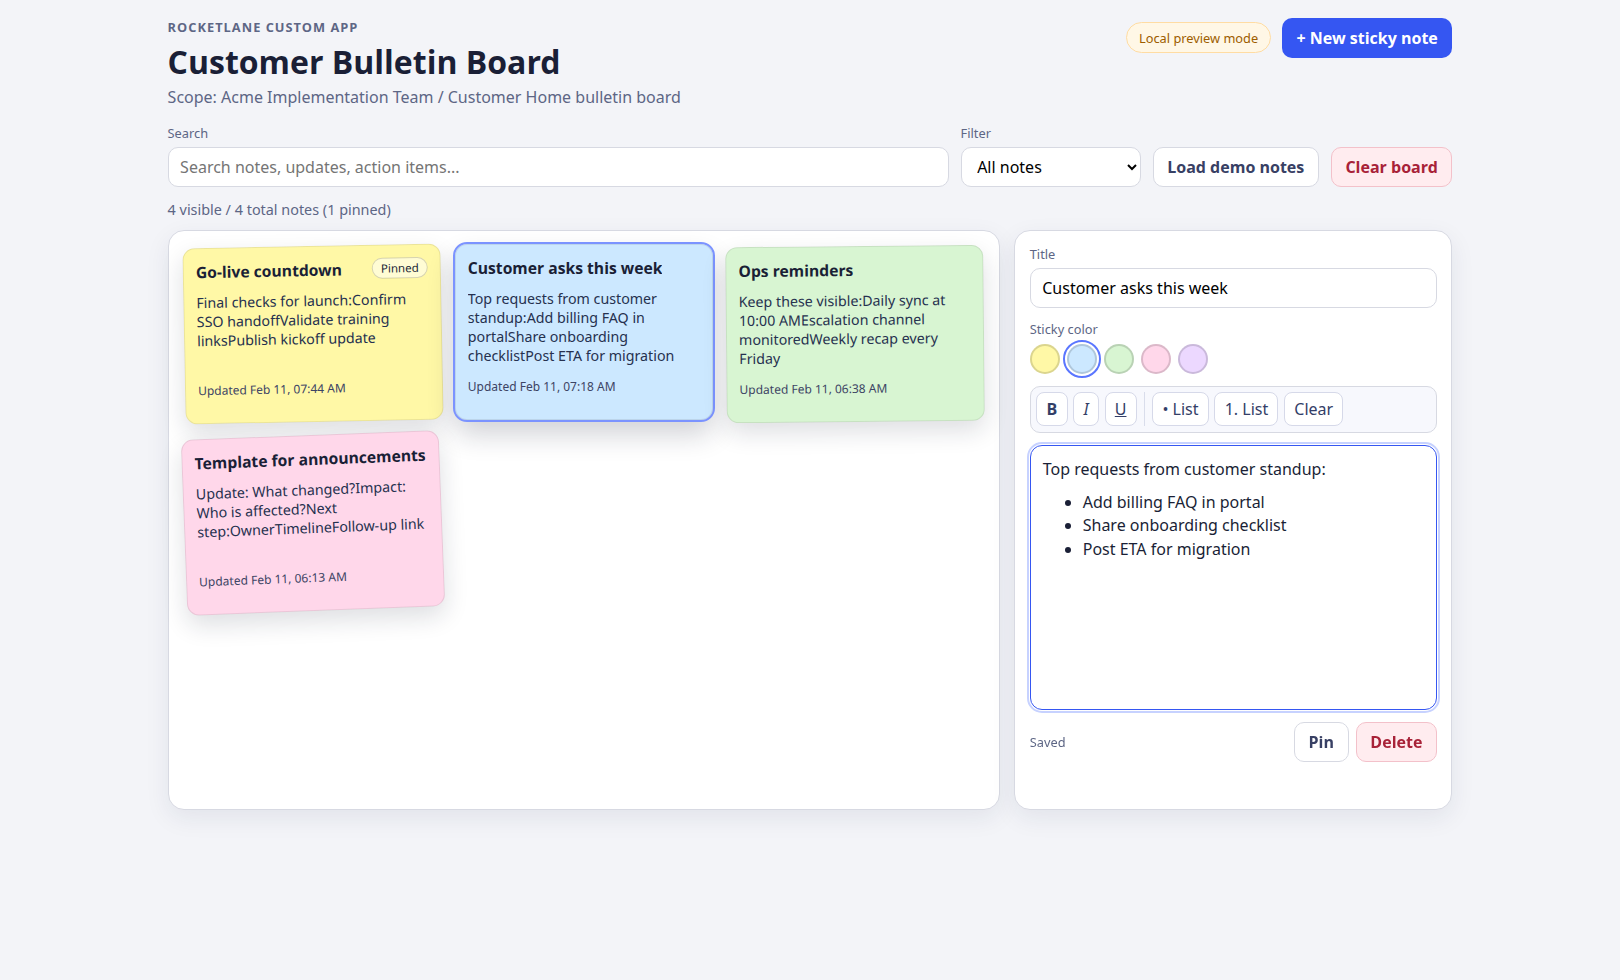
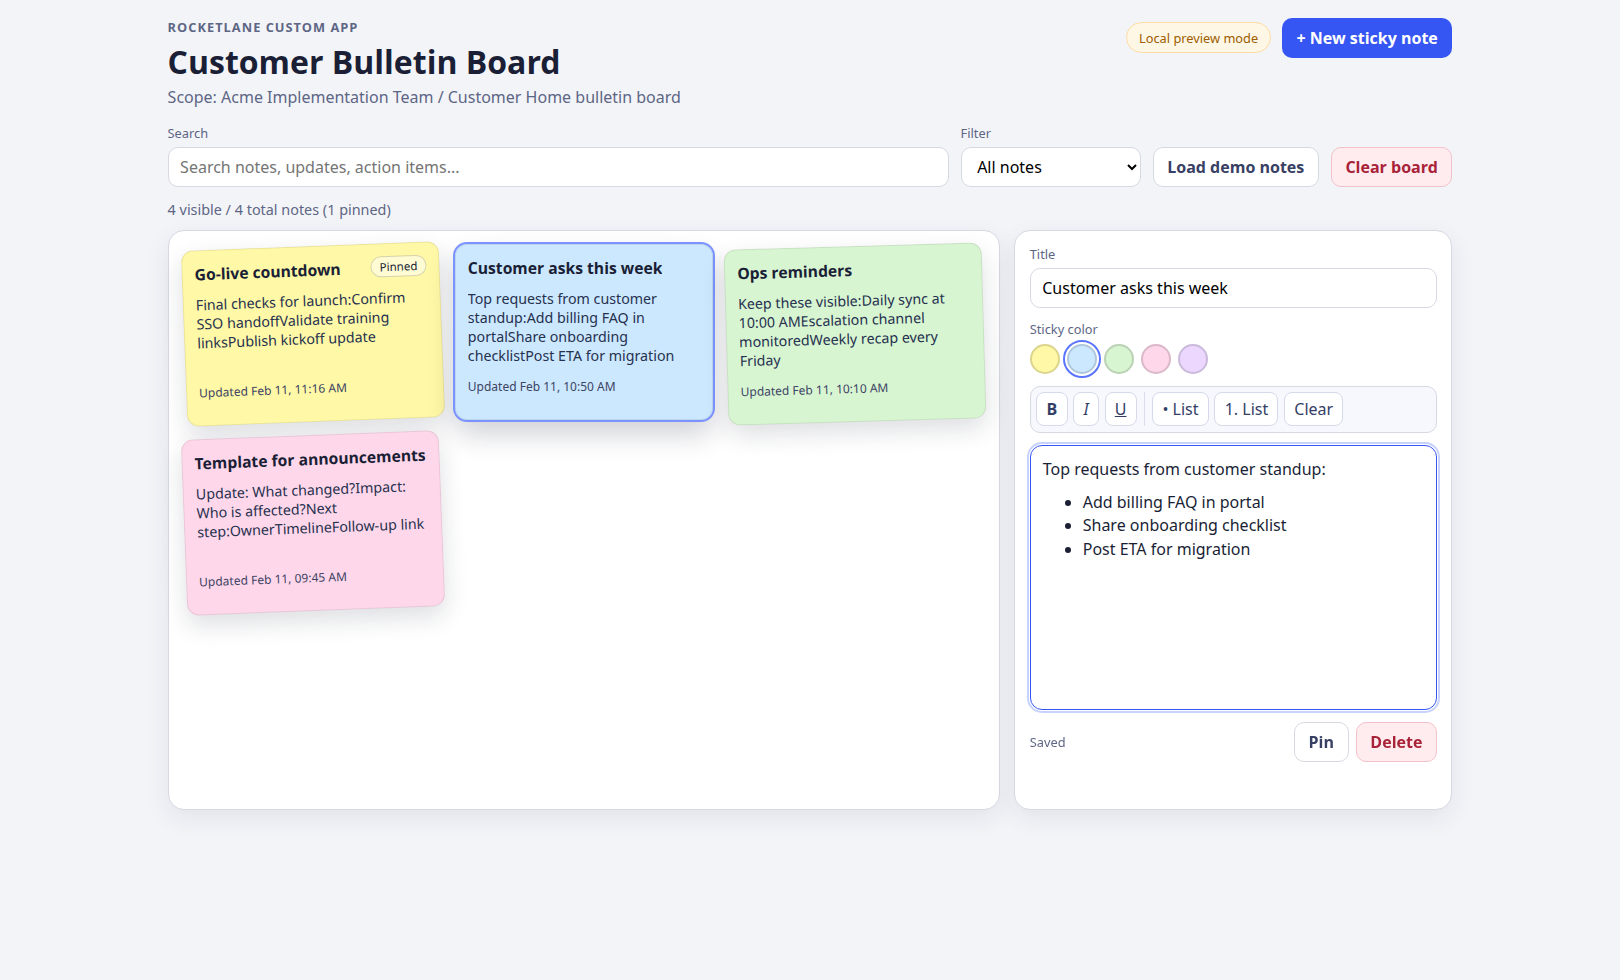
Add Home sidebar widget variant and compact right-rail layout

diff --git a/dist/app.js b/dist/app.js
@@ -14,6 +14,8 @@
     client: null,
     context: null,
     storageKey: "",
+    widgetId: "",
+    layoutMode: "full", // "full" | "sidebar"
     notes: [],
     selectedNoteId: null,
     searchQuery: "",
@@ -37,6 +39,11 @@
     bindEvents();
     buildColorPicker();
 
+    const query = new URLSearchParams(window.location.search);
+    state.widgetId = detectWidgetId(query);
+    state.layoutMode = determineLayoutMode(state.widgetId, query);
+    applyLayoutMode(state.layoutMode);
+
     const runtime = await initializeRuntime();
     state.client = runtime.client;
     state.context = runtime.context;
@@ -45,7 +52,6 @@
     updateHeader(runtime);
     loadNotes();
 
-    const query = new URLSearchParams(window.location.search);
     if (state.notes.length === 0 && shouldSeedDemo(query)) {
       seedDemoNotes();
     }
@@ -59,6 +65,41 @@
     }
 
     renderAll();
+  }
+
+  function detectWidgetId(query) {
+    return (
+      query.get("widgetId") ||
+      query.get("widgetIdentifier") ||
+      query.get("widget") ||
+      ""
+    );
+  }
+
+  function determineLayoutMode(widgetId, query) {
+    const explicit = String(query.get("layout") || "").toLowerCase();
+    if (explicit === "sidebar" || explicit === "rail") {
+      return "sidebar";
+    }
+
+    // Use the widget identifier to switch to a compact layout for the
+    // Home right-sidebar placement (typically configured under Personal Tasks).
+    if (widgetId === "customer-bulletin-board-home-right") {
+      return "sidebar";
+    }
+
+    // Auto-detect a right-rail embed: narrow iframe/container.
+    // This doesn't guarantee placement, but ensures the UI fits there.
+    if (window.innerWidth > 0 && window.innerWidth <= 640) {
+      return "sidebar";
+    }
+
+    return "full";
+  }
+
+  function applyLayoutMode(mode) {
+    document.body.classList.toggle("layout-sidebar", mode === "sidebar");
+    document.body.classList.toggle("layout-full", mode !== "sidebar");
   }
 
   function cacheDomReferences() {
@@ -227,10 +268,17 @@
 
   function updateHeader(runtime) {
     const context = runtime.context;
-    const view = context.projectName || "Customer home";
+    const view =
+      context.projectName ||
+      (state.layoutMode === "sidebar" ? "Home (right sidebar)" : "Customer home");
 
-    refs.boardScope.textContent =
-      "Scope: " + context.accountName + " / " + view + " bulletin board";
+    if (state.layoutMode === "sidebar") {
+      refs.boardScope.textContent =
+        "Configured for Home right sidebar (place under Personal Tasks)";
+    } else {
+      refs.boardScope.textContent =
+        "Scope: " + context.accountName + " / " + view + " bulletin board";
+    }
 
     if (runtime.connected) {
       refs.connectionBadge.className = "badge badge-ok";

diff --git a/dist/styles.css b/dist/styles.css
@@ -426,3 +426,60 @@ select:focus,
     flex-wrap: wrap;
   }
 }
+
+/* Compact styling for the Home right-sidebar widget placement. */
+body.layout-sidebar {
+  background: transparent;
+}
+
+body.layout-sidebar .app-shell {
+  max-width: 100%;
+  padding: 0.6rem;
+}
+
+body.layout-sidebar .eyebrow {
+  display: none;
+}
+
+body.layout-sidebar .app-header {
+  align-items: center;
+}
+
+body.layout-sidebar h1 {
+  font-size: 1.25rem;
+}
+
+body.layout-sidebar .control-row {
+  grid-template-columns: 1fr;
+}
+
+body.layout-sidebar #seedDemoButton,
+body.layout-sidebar #clearBoardButton {
+  display: none;
+}
+
+body.layout-sidebar .notes-column,
+body.layout-sidebar .editor-column {
+  box-shadow: none;
+}
+
+body.layout-sidebar .content-grid {
+  grid-template-columns: 1fr;
+}
+
+body.layout-sidebar .notes-column {
+  min-height: auto;
+}
+
+body.layout-sidebar .notes-grid {
+  grid-template-columns: 1fr;
+}
+
+body.layout-sidebar .note-card {
+  min-height: 140px;
+  transform: none;
+}
+
+body.layout-sidebar .note-meta {
+  display: none;
+}

diff --git a/index.js b/index.js
@@ -1,10 +1,20 @@
 const widgets = [
   {
-    identifier: "customer-home-bulletin-board",
-    location: ["customer_portal_widget", "left_nav"],
-    name: "Customer Bulletin Board",
+    identifier: "customer-bulletin-board-home-right",
+    location: ["customer_portal_widget"],
+    name: "Bulletin Board (Home sidebar)",
     description:
-      "Sticky-note bulletin board for customer updates and collaboration.",
+      "Sticky-note bulletin board intended for the Home right sidebar (place under Personal Tasks).",
+    icon: "dist/icon.svg",
+    entrypoint: {
+      html: "dist/index.html",
+    },
+  },
+  {
+    identifier: "customer-bulletin-board-full",
+    location: ["left_nav"],
+    name: "Bulletin Board (Full)",
+    description: "Full bulletin board view (for admins/team members).",
     icon: "dist/icon.svg",
     entrypoint: {
       html: "dist/index.html",

diff --git a/README.md b/README.md
@@ -96,6 +96,7 @@ Screenshots generated for review:
 
 - `docs/screenshots/bulletin-board-overview.png`
 - `docs/screenshots/bulletin-board-lists-and-formatting.png`
+- `docs/screenshots/bulletin-board-home-sidebar.png` (compact right-rail layout)
 
 ## Packaging for upload
 
